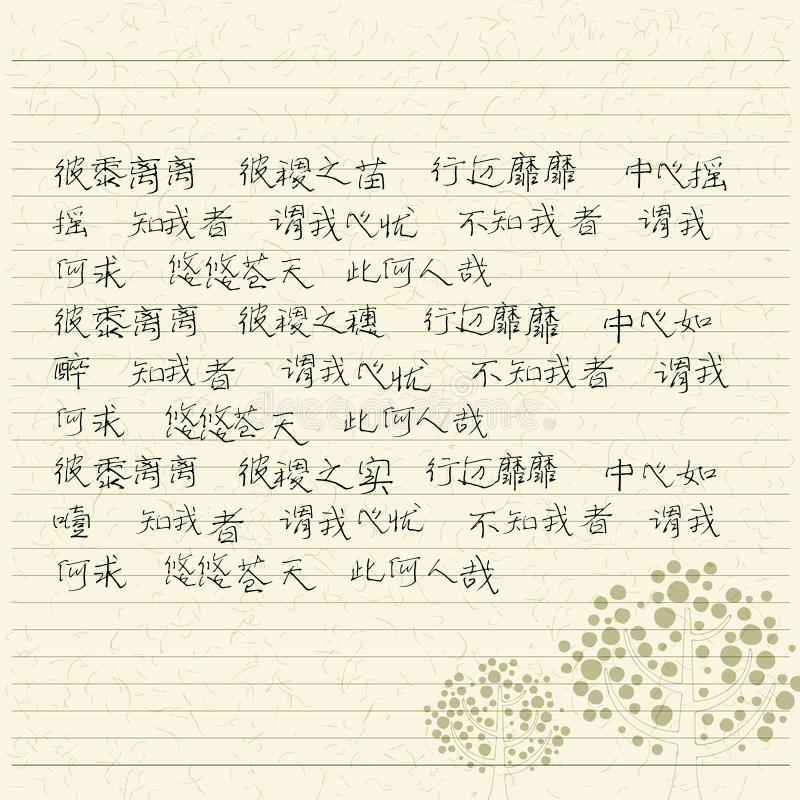
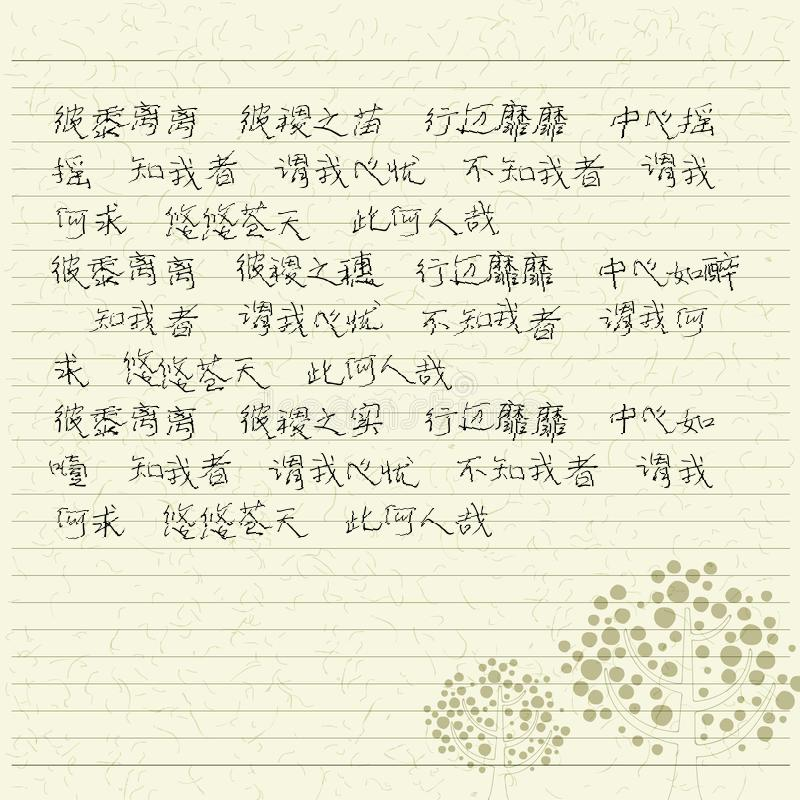
修复在Windows平台下的兼容性问题;etc.

Changed region(s): [[0.0625, 0.125, 0.9375, 0.75], [0.75, 0.3125, 0.8125, 0.3438]]

diff --git a/tests/test_handwrite.py b/tests/test_handwrite.py
@@ -3,27 +3,36 @@ Test handwrite by naked eye.
 """
 from PIL import Image, ImageFont
 from pylf import handwrite
+from multiprocessing import freeze_support
 import os
-template = {
-    'background': Image.open("./data/pictures/design.jpg"),
-    'box': (100, 400, 1500, 2000),
-    'color': (0, 0, 0),
-    'font': ImageFont.truetype("./data/fonts/HYYiNingLiJ.ttf"),
-    'font_size': 40,
-    'font_size_sigma': 2,
-    'line_spacing': 40,
-    'line_spacing_sigma': 1,
-    'word_spacing': 20,
-    'word_spacing_sigma': 2,
-    'is_half_char': lambda c: c.isalpha() or c.isdigit() or c in (',', '.'),
-    'is_end_char': lambda c: c in ('!', '.', '?')
-}
-dir_path, dir_names, file_names = list(os.walk("./data/texts"))[0]
-for filename in file_names:
-    with open("{}/{}".format(dir_path, filename)) as f:
-        text = f.read()
-    images = handwrite(text, template)
-    for image in images:
-        image.show()
-    input("""{} has been written.
-    press ENTER to continues""".format(filename))
+
+
+def main():
+    template = {
+        'background': Image.open("./data/pictures/design.jpg"),
+        'box': (100, 400, 1500, 2000),
+        'color': (0, 0, 0),
+        'font': ImageFont.truetype("./data/fonts/HYYiNingLiJ.ttf"),
+        'font_size': 40,
+        'font_size_sigma': 2,
+        'line_spacing': 40,
+        'line_spacing_sigma': 1,
+        'word_spacing': 20,
+        'word_spacing_sigma': 2,
+        'is_half_char': lambda c: c.isalpha() or c.isdigit() or c in (',', '.'),
+        'is_end_char': lambda c: c in ('!', '.', '?')
+    }
+    dir_path, dir_names, file_names = list(os.walk("./data/texts"))[0]
+    for filename in file_names:
+        with open("{}/{}".format(dir_path, filename)) as f:
+            text = f.read()
+        images = handwrite(text, template)
+        for image in images:
+            image.show()
+        input("""{} has been written.
+        press ENTER to continues""".format(filename))
+
+
+if __name__ == '__main__':
+    freeze_support()
+    main()

diff --git a/demo/shuli.py b/demo/shuli.py
@@ -1,23 +1,31 @@
 from PIL import Image, ImageFont
 from pylf import handwrite
-template = {
-    'background': Image.open("./pictures/树信笺纸.jpg"),
-    'box': (50, 100, 800-50, 800-100),
-    'color': (0, 0, 0),
-    'font': ImageFont.truetype("./fonts/HYYiNingLiJ.ttf"),
-    'font_size': 45,
-    'font_size_sigma': 2,
-    'line_spacing': 50,
-    'line_spacing_sigma': 1,
-    'word_spacing': 15,
-    'word_spacing_sigma': 2,
-    'is_half_char': lambda c: c.isalpha() or c.isdigit() or c in (',', '.', ' '),
-    'is_end_char': lambda c: c in ('!', '.', '?')
-}
-text = """
-彼黍离离 彼稷之苗 行迈靡靡 中心摇摇 知我者 谓我心忧 不知我者 谓我何求 悠悠苍天 此何人哉
+from multiprocessing import freeze_support
+
+
+def main():
+    template = {
+        'background': Image.open("./pictures/树信笺纸.jpg"),
+        'box': (50, 100, 800-50, 800-100),
+        'color': (0, 0, 0),
+        'font': ImageFont.truetype("./fonts/HYYiNingLiJ.ttf"),
+        'font_size': 45,
+        'font_size_sigma': 1,
+        'line_spacing': 50,
+        'line_spacing_sigma': 1,
+        'word_spacing': 15,
+        'word_spacing_sigma': 1,
+        'is_half_char': lambda c: c.isalpha() or c.isdigit() or c in (',', '.', ' '),
+        'is_end_char': lambda c: c in ('!', '.', '?')
+    }
+    text = """彼黍离离 彼稷之苗 行迈靡靡 中心摇摇 知我者 谓我心忧 不知我者 谓我何求 悠悠苍天 此何人哉
 彼黍离离 彼稷之穗 行迈靡靡 中心如醉 知我者 谓我心忧 不知我者 谓我何求 悠悠苍天 此何人哉
 彼黍离离 彼稷之实 行迈靡靡 中心如噎 知我者 谓我心忧 不知我者 谓我何求 悠悠苍天 此何人哉
 """
-images = handwrite(text, template)
-images[0].save("./out/shuli.jpg")
+    images = handwrite(text, template)
+    images[0].save("./out/shuli.jpg")
+
+
+if __name__ == '__main__':
+    freeze_support()
+    main()

diff --git a/demo/I_can_eat_glass.py b/demo/I_can_eat_glass.py
@@ -1,19 +1,28 @@
 from PIL import Image, ImageFont
 from pylf import handwrite
-template = {
-    'background': Image.open("./pictures/树信笺纸.jpg"),
-    'box': (50, 500, 800 - 80, 800 - 50),
-    'color': (0, 0, 0),
-    'font': ImageFont.truetype("./fonts/HYYiNingLiJ.ttf"),
-    'font_size': 60,
-    'font_size_sigma': 4,
-    'line_spacing': 50,
-    'line_spacing_sigma': 1,
-    'word_spacing': 30,
-    'word_spacing_sigma': 5,
-    'is_half_char': lambda c: c.isalpha() or c.isdigit() or c in (',', '.'),
-    'is_end_char': lambda c: c in ('!', '.', '?')
-}
-text = "我能吞下玻璃而不伤身体"
-images = handwrite(text, template)
-images[0].crop((0, 450, 800, 800-200)).save("./out/I_can_eat_glass.jpg")
+from multiprocessing import freeze_support
+
+
+def main():
+    template = {
+        'background': Image.open("./pictures/树信笺纸.jpg"),
+        'box': (50, 500, 800 - 80, 800 - 50),
+        'color': (0, 0, 0),
+        'font': ImageFont.truetype("./fonts/HYYiNingLiJ.ttf"),
+        'font_size': 60,
+        'font_size_sigma': 2,
+        'line_spacing': 50,
+        'line_spacing_sigma': 1,
+        'word_spacing': 30,
+        'word_spacing_sigma': 2,
+        'is_half_char': lambda c: c.isalpha() or c.isdigit() or c in (',', '.'),
+        'is_end_char': lambda c: c in ('!', '.', '?')
+    }
+    text = "我能吞下玻璃而不伤身体"
+    images = handwrite(text, template)
+    images[0].crop((0, 450, 800, 800-200)).save("./out/I_can_eat_glass.jpg")
+
+
+if __name__ == '__main__':
+    freeze_support()
+    main()

diff --git a/README.md b/README.md
@@ -2,6 +2,8 @@
 ![](./demo/out/I_can_eat_glass.jpg) <br>
 PyLf is a lightweight and fast Python library for simulating Chinese handwriting. It introduces a great deal of 
 randomness in the process of Chinese handwriting to simulate the uncertainty of glyphs written by human beings.
+## For Windows users
+* [Windows用户必读！](https://github.com/Gsllchb/PyLf/wiki/Windows%E7%94%A8%E6%88%B7%E5%BF%85%E8%AF%BB%EF%BC%81)
 ## Installation
 由于PyLf在[Pillow](https://python-pillow.org/)之上进行开发，故PyLf在安装过程中会自动安装[Pillow](https://python-pillow.org/)（如
 若您的电脑尚未安装此库的话）。但是，由于[Pillow](https://python-pillow.org/)会与[PIL](http://www.pythonware.com/products/pil/)发
